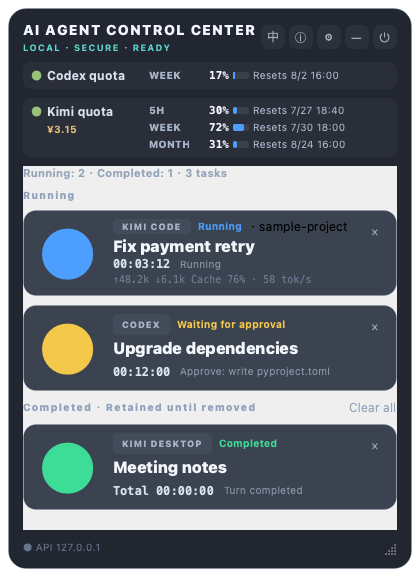
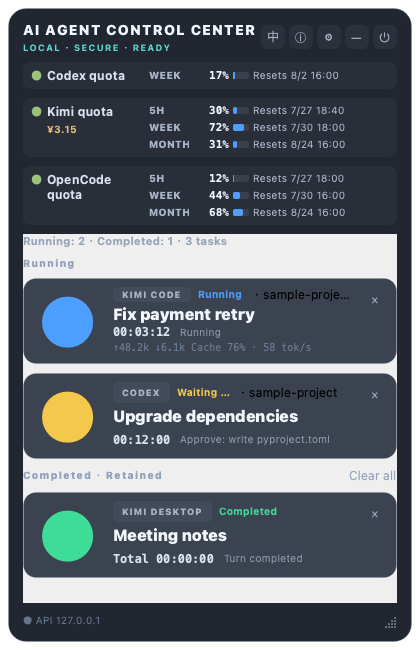
docs: refresh quota panel screenshots

diff --git a/scripts/capture_panel_screenshot.py b/scripts/capture_panel_screenshot.py
@@ -33,8 +33,9 @@ from aacc.codex_quota_service import CodexQuotaService  # noqa: E402
 from aacc.config import default_config  # noqa: E402
 from aacc.gui import MainWindow  # noqa: E402
 from aacc.i18n import EN_US, ZH_CN, LanguageManager  # noqa: E402
-from aacc.kimi_quota import BoosterWallet, KimiQuota, QuotaDetail  # noqa: E402
+from aacc.kimi_quota import BoosterWallet, KimiQuota, QuotaDetail, QuotaStatus  # noqa: E402
 from aacc.models import AgentConfig, TaskConfig, TaskState, TerminalConfig  # noqa: E402
+from aacc.opencode_web_quota import OpenCodeQuota, OpenCodeUsage  # noqa: E402
 from aacc.persistence import StateStore  # noqa: E402
 from aacc.task_manager import TaskManager  # noqa: E402
 
@@ -53,6 +54,9 @@ CODEX_WEEK = 17
 KIMI_5H = 30
 KIMI_WEEK = 72
 KIMI_MONTH = 31
+OPENCODE_5H = 12
+OPENCODE_WEEK = 44
+OPENCODE_MONTH = 68
 
 
 class _DemoDateTime(datetime):
@@ -69,6 +73,21 @@ class _DemoKimiWebQuotaService(QObject):
     error_occurred = Signal(str)
     web_error_occurred = Signal(object)
     code_error_occurred = Signal(object)
+
+    def open_login(self, _parent: object = None) -> None:
+        return
+
+    def refresh_now(self) -> None:
+        return
+
+    def logout(self) -> None:
+        return
+
+
+class _DemoOpenCodeWebQuotaService(QObject):
+    quota_updated = Signal(object)
+    login_state_changed = Signal(bool)
+    error_occurred = Signal(str)
 
     def open_login(self, _parent: object = None) -> None:
         return
@@ -154,6 +173,28 @@ def _demo_quota() -> KimiQuota:
     )
 
 
+def _demo_opencode_quota() -> OpenCodeQuota:
+    return OpenCodeQuota(
+        rolling=OpenCodeUsage(
+            OPENCODE_5H,
+            3600 * 2,
+            DEMO_NOW + timedelta(hours=2),
+        ),
+        weekly=OpenCodeUsage(
+            OPENCODE_WEEK,
+            3600 * 24 * 3,
+            DEMO_NOW + timedelta(days=3),
+        ),
+        monthly=OpenCodeUsage(
+            OPENCODE_MONTH,
+            3600 * 24 * 28,
+            DEMO_NOW + timedelta(days=28),
+        ),
+        status=QuotaStatus.OK,
+        fetched_at=DEMO_NOW,
+    )
+
+
 def main() -> int:
     gui_module.datetime = _DemoDateTime
     app = QApplication(sys.argv)
@@ -165,6 +206,7 @@ def main() -> int:
     store.initialize(config.tasks)
     manager = TaskManager(config, store)
     kimi_web_quota_service = _DemoKimiWebQuotaService()
+    opencode_web_quota_service = _DemoOpenCodeWebQuotaService()
     codex_snapshot = CodexQuotaSnapshot(
         weekly=CodexQuotaWindow(
             used_percent=CODEX_WEEK,
@@ -189,6 +231,7 @@ def main() -> int:
         language_manager=language_manager,
         kimi_web_quota_service=kimi_web_quota_service,  # type: ignore[arg-type]
         codex_quota_service=codex_quota_service,
+        opencode_web_quota_service=opencode_web_quota_service,  # type: ignore[arg-type]
         open_url=lambda _url: None,
     )
     # Keep the full title visible in the fixed-width documentation raster by
@@ -245,6 +288,7 @@ def main() -> int:
             "WAITING_APPROVAL",
             approval_message,
             minutes_ago=12.0,
+            work_dir="C:/AACC-Demo/sample-project",
         ),
         _task(
             "kimi_desktop:demo-notes",
@@ -267,8 +311,10 @@ def main() -> int:
     kimi_web_quota_service.login_state_changed.emit(True)
     kimi_web_quota_service.quota_updated.emit(_demo_quota())
     codex_quota_service.quota_updated.emit(codex_snapshot)
-    window.resize(420, 577)
-    window.setFixedSize(420, 577)
+    opencode_web_quota_service.login_state_changed.emit(True)
+    opencode_web_quota_service.quota_updated.emit(_demo_opencode_quota())
+    window.resize(420, 650)
+    window.setFixedSize(420, 650)
     app.processEvents()
     if title is not None:
         _assert_label_fits(title)
@@ -283,7 +329,7 @@ def main() -> int:
     OUTPUT.parent.mkdir(parents=True, exist_ok=True)
     screenshot = window.grab()
     screenshot_size = (screenshot.width(), screenshot.height())
-    assert screenshot_size == (420, 577), f"unexpected screenshot size: {screenshot_size}"
+    assert screenshot_size == (420, 650), f"unexpected screenshot size: {screenshot_size}"
     if not screenshot.save(str(OUTPUT)):
         print("failed to save screenshot", file=sys.stderr)
         return 1

diff --git a/src/aacc/gui.py b/src/aacc/gui.py
@@ -1097,15 +1097,17 @@ class TaskCard(QFrame):
         meta_row = QHBoxLayout()
         meta_row.setContentsMargins(0, 0, 0, 0)
         meta_row.setSpacing(7)
-        self.status_label = QLabel()
+        self.status_label = ElidedLabel("")
         self.status_label.setObjectName("statusLabel")
+        self.status_label.setSizePolicy(QSizePolicy.Policy.Ignored, QSizePolicy.Policy.Preferred)
         self.workdir_label = ElidedLabel("")
         self.workdir_label.setObjectName("workdirLabel")
         self.workdir_label.setMaximumWidth(140)
+        self.workdir_label.setSizePolicy(QSizePolicy.Policy.Ignored, QSizePolicy.Policy.Preferred)
         self.workdir_label.hide()
-        meta_row.addWidget(self.agent_label)
-        meta_row.addWidget(self.status_label)
-        meta_row.addWidget(self.workdir_label)
+        meta_row.addWidget(self.agent_label, 0)
+        meta_row.addWidget(self.status_label, 1)
+        meta_row.addWidget(self.workdir_label, 2)
         meta_row.addStretch()
         details_layout.addLayout(meta_row)
 
@@ -2015,7 +2017,7 @@ class MainWindow(QWidget):
         self.retained_header = QWidget()
         retained_header_layout = QHBoxLayout(self.retained_header)
         retained_header_layout.setContentsMargins(0, 0, 0, 0)
-        self.retained_group_label = QLabel("已完成 · 保留直到移除")
+        self.retained_group_label = QLabel("已完成 · 保留")
         self.retained_group_label.setObjectName("taskGroupLabel")
         self.clear_retained_button = QPushButton("全部清除")
         self.clear_retained_button.setObjectName("clearRetainedButton")
@@ -2099,9 +2101,7 @@ class MainWindow(QWidget):
         self.quit_button.setToolTip(self.language_manager.text("header.quit"))
         self.running_group_label.setText(self.language_manager.text("group.running"))
         self.retained_group_label.setText(
-            "已完成 · 保留直到移除"
-            if self.language_manager.language == ZH_CN
-            else "Completed · Retained until removed"
+            "已完成 · 保留" if self.language_manager.language == ZH_CN else "Completed · Retained"
         )
         self.clear_retained_button.setText(self.language_manager.text("group.clear_all"))
         self.empty_tasks_label.setText(

diff --git a/tests/test_gui.py b/tests/test_gui.py
@@ -93,7 +93,7 @@ def test_header_language_button_switches_live_and_persists(tmp_path: Path, qtbot
     assert window.language_button.text() == "中"
     assert window.language_button.toolTip() == "切换到中文"
     assert window.running_group_label.text() == "Running"
-    assert window.retained_group_label.text() == "Completed · Retained until removed"
+    assert window.retained_group_label.text() == "Completed · Retained"
     assert window.empty_tasks_label.text().startswith("No Codex / Kimi Code")
     assert window.task_summary_label.text() == "Running: 0 · Completed: 0 · 0 tasks"
     assert window.about_button.toolTip() == "About"
@@ -1942,6 +1942,35 @@ def test_codex_card_shows_work_dir_basename_next_to_status(tmp_path: Path, qtbot
     assert card.workdir_label.text() == "· codelight"
     assert not card.workdir_label.isHidden()
     assert card.workdir_label.toolTip() == "/Users/test/Desktop/codelight"
+    manager.close()
+
+
+def test_codex_work_dir_card_does_not_force_horizontal_scroll(
+    tmp_path: Path, qtbot: object
+) -> None:
+    window, manager = build_window(tmp_path, qtbot)
+    task = TaskConfig(
+        id="codex:narrow-workdir",
+        slot=1,
+        name="Upgrade dependencies",
+        agent=AgentConfig(type="codex_cli", display_name="Codex"),
+    )
+    manager.register(
+        task,
+        TaskState.new(
+            task.id,
+            "waiting-approval",
+            message="Approve: write pyproject.toml",
+            source="codex_local",
+            metadata={"work_dir": "C:/AACC-Demo/sample-project"},
+        ),
+    )
+    window.set_codex_selected_ids({"narrow-workdir"})
+    window.resize(420, 650)
+    window.show()
+    QApplication.processEvents()
+
+    assert not window.cards_scroll.horizontalScrollBar().isVisible()
     manager.close()
 
 

diff --git a/tests/test_release_docs.py b/tests/test_release_docs.py
@@ -41,6 +41,11 @@ def test_screenshot_fixture_is_fixed_and_privacy_safe() -> None:
     assert "KIMI_5H = 30" in script
     assert "KIMI_WEEK = 72" in script
     assert "KIMI_MONTH = 31" in script
+    assert "OPENCODE_5H = 12" in script
+    assert "OPENCODE_WEEK = 44" in script
+    assert "OPENCODE_MONTH = 68" in script
+    assert "OpenCodeQuota" in script
+    assert "_DemoOpenCodeWebQuotaService" in script
     assert "window.resize(420," in script
     lowered = script.casefold()
     for forbidden in (
@@ -55,7 +60,7 @@ def test_screenshot_fixture_is_fixed_and_privacy_safe() -> None:
     normalized_home = str(Path.home()).casefold().replace("\\", "/")
     assert normalized_home not in normalized_script
     for screenshot in (SCREENSHOT, EN_SCREENSHOT):
-        assert _png_size(screenshot) == (420, 577)
+        assert _png_size(screenshot) == (420, 650)
         assert set(_png_chunk_types(screenshot)) <= {b"IHDR", b"pHYs", b"IDAT", b"IEND"}
 
 
